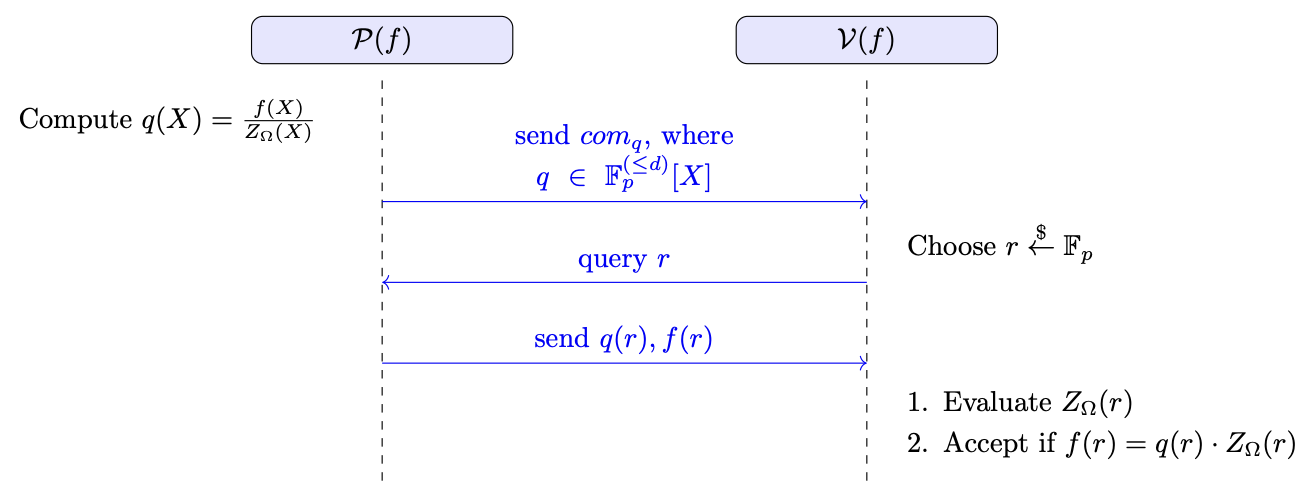
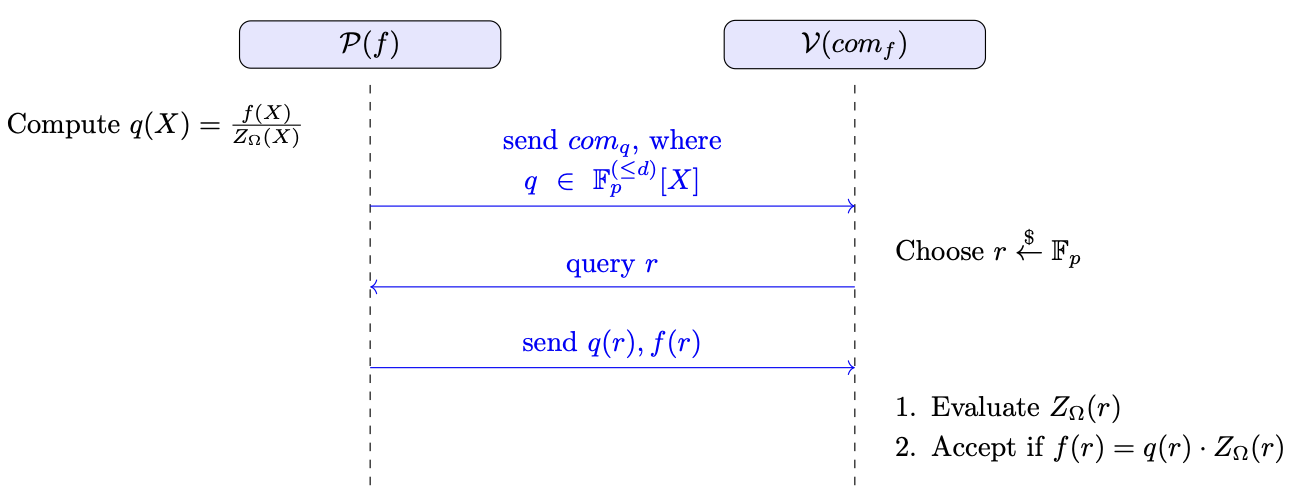
Add product check

diff --git a/src/02_plonk/05_prod_test.md b/src/02_plonk/05_prod_test.md
@@ -1,0 +1,232 @@
+# Product Test
+
+Product test is a task where a prover $\mathcal{P}$, knowing a polynomial function $f(X) \in \mathbb{F}^{(\leq d)}[X]$, tries to convince a verifier $\mathcal{V}$, who holds a commitment $\text{com}_f$ to $f$, that
+$$
+\prod_{a \in \Omega} f(a) = 1,
+$$
+where $\Omega \subseteq \mathbb{F}_p$ and $|\Omega| = k$.
+
+---
+A naive verifier strategy might be:
+
+1. **Individual proofs**: The verifier queries the prover for $f(a)$ for each $a \in \Omega$. This results in $\mathcal{O}(k)$ proof openings and $\mathcal{O}(k)$ verification operations. Finally, the verifier multiplies all values to check if their product is $1$.
+
+Our goal is to design a protocol where the prover can convince the verifier of
+$$
+\prod_{a \in \Omega} f(a) = 1
+$$
+using a *constant-size* proof (independent of $k $ aside from the baseline commitment scheme costs) and a *logarithmic* verifier runtime (rather than $\mathcal{O}(k) $).
+
+We use the same set $\Omega$ from the zero test, i.e.,
+$$
+\Omega = \{1, w, w^2, \dots, w^{k-1}\},
+$$
+
+where $w$ is a primitive $k$th root of unity in $\mathbb{F}_p$.
+
+---
+
+## Auxiliary Polynomial $t(X)$
+
+We define a polynomial $t(X)$ such that
+
+$$
+t(w \cdot x) = f(w \cdot x) \, t(x) \quad \forall x \in \Omega.
+$$
+
+To understand this relationship, let us expand it over the points of $\Omega$:
+
+- For $x = w^{k-1}$:  
+  $$
+  t(w^k) = f(w^k)\, t(w^{k-1})
+  \quad\Longrightarrow\quad
+  t(1) = f(1)\, t(w^{k-1}),
+  $$
+  since $w^k = 1$.
+
+- For $x = w^{k-2}$:
+  $$
+  t(w^{k-1}) = f(w^{k-1})\, t(w^{k-2}).
+  $$
+
+- For $x = w^{k-3}$:
+  $$
+  t(w^{k-2}) = f(w^{k-2})\, t(w^{k-3})
+  \quad\Longrightarrow\quad
+  t(w^{k-1}) = f(w^{k-1})\, f(w^{k-2})\, t(w^{k-3}),
+  $$
+
+and so on, until eventually:
+
+- For $x = w$:
+  $$
+  t(w^2) = f(w^2)\, t(w),
+  $$
+- For $x = 1$:
+  $$
+  t(w) = f(w)\, t(1).
+  $$
+
+Chaining these together, we get:
+
+$$
+t(w^{k-1}) 
+= 
+f(w^{k-1})\, f(w^{k-2}) \,\dots\, f(w)\, f(1)\, t(w^{k-1}).
+$$
+
+If $t(w^{k-1}) \neq 0$ (i.e. $t(w^{k-1}) = 1$), we can divide both sides by $t(w^{k-1})$ and obtain
+
+$$
+1
+=
+f(w^{k-1})\, f(w^{k-2})\, \dots \, f(w)\, f(1).
+$$
+
+Thus, to show this relationship, the prover’s goal boils down to proving:
+
+1. $t(w^{k-1}) = 1$.  
+2. $t(w \cdot x) = f(w \cdot x)\, t(x)$ for all $x \in \Omega$.
+
+---
+
+### Protocol Overview
+
+![Product Test Protocol](./diagrams/prod_test.png)
+
+1. The prover computes
+    - polynomial $t(X)$ of degree $k-1$ such that
+    $$
+    t(wX) = t(X)\, f(wX) \quad \forall\, X \in \Omega.
+    $$
+    $t(X)$ can be computed using $k$ points in $\Omega$ and knowing the fact that:
+    $$
+    t(w^{k-1}) = 1, \quad t(1) = f(1), \quad t(w^2) = t(w)\,f(w^2), \quad \dots
+    $$
+
+    - polynomial $q(X)$ of degree $d - 1$ such that
+    $$
+    q(X) \;=\; \frac{\,t(wX) \;-\; t(X)\,f(wX)\,}{Z_{\Omega}(X)},
+    $$
+    where $Z_{\Omega}(X)$ is the vanishing polynomial over $\Omega$. Since 
+    $$
+    t(wX) - t(X)\,f(wX) = 0 \quad \forall\, X \in \Omega,
+    $$
+    such a $q(X)$ exists.
+    The prover sends a *commitment* to $q$ and $t$ (denoted $\text{com}_q$, $\text{com}_t$) to the verifier.
+
+2. The verifier samples a random challenge $r \in \mathbb{F}_p$ (a public-coin protocol) and sends $r$ to the prover.
+
+3. The prover returns:
+   $$
+   t(w^{k-1}),\quad t(wr),\quad t(r),\quad q(r),\quad f(wr)
+   $$
+   along with their commitment proofs (showing these openings are consistent with the committed polynomials $t(X)$ and $q(X)$). This ensures the prover cannot lie about the polynomial values.
+
+
+4. The verifier locally computes $Z_{\Omega}(r)$. It then checks:
+   $$
+   t(w^{k-1}) \stackrel{?}{=} 1
+   \quad\text{and}\quad
+   t(wr) - t(r)\,f(wr) \stackrel{?}{=} q(r)\,Z_{\Omega}(r).
+   $$
+   If both checks hold, the verifier accepts; otherwise, it rejects.
+
+### Informal Security Proof
+- **Completeness**: If the prover follows the protocol honestly and $t(wX) - t(X)\,f(wX)$
+  truly vanishes on $\Omega$, then there is a valid $q(X)$ of degree at most 
+  $(\deg(t) + \deg(f) - \deg(Z_{\Omega})) = (k-1) + d - k = d - 1,$  
+  such that
+  $$
+  t(wX) - t(X)\,f(wX) \;=\; q(X)\,Z_{\Omega}(X) 
+  \quad\forall\,X.
+  $$
+  Therefore, for any challenge $r$,
+  $$
+  t(wr) - t(r)\,f(wr) \;=\; q(r)\,\bigl(Z_{\Omega}(r)\bigr),
+  $$
+  and the verifier’s checks succeed.
+
+- **Soundness**:A malicious prover cannot fool the verifier unless 
+  $$
+  t(wX) - t(X)\,f(wX) = 0 \quad \forall\,X \in \Omega
+  \quad\text{and}\quad
+  t(w^{k-1}) = 1.
+  $$
+  The main cases are:
+   1. **Secure Commitment Scheme**: We assume the commitment scheme is secure, so a malicious prover cannot cheat when revealing $f(wr),\,t(r),\,t(wr),\,t(w^{k-1}),\,q(r)$ in Step 3.
+   2. **Incorrect $q(X)$ or $t(X)$**: Suppose the product check really holds and the prover sends malicious polynomials $t'(X)$ or $q'(X)$. If the verifier’s checks pass for a random challenge $r$,
+     $$
+     t'(wr) - t'(r)\,f(wr) 
+     = 
+     q'(r)\,Z_{\Omega}(r),
+     $$
+     it implies 
+     $$
+     t'(wX) - t'(X)\,f(wX) 
+     =
+     q'(X)\,Z_{\Omega}(X)
+     \quad\Longrightarrow\quad
+     t'(wX) = t'(X)\,f(wX),
+     $$
+     holding for all $X \in \Omega$. Thus the relationship is indeed satisfied.
+   3. **Product check does not hold**: Suppose $\prod_{a \in \Omega} f(a) \;\neq\; 1.$
+     Then $t(wX) - t(X)\,f(wX)$ does *not* vanish on $\Omega$ (i.e., no polynomial $q(X)$ of degree $\le d - 1$ can factor out $Z_{\Omega}(X)$ from this difference). Formally, we could write
+     $$
+     t(wX) - t(X)\,f(wX) 
+     =
+     q(X)\,Z_{\Omega}(X) \;+\; R(X),
+     $$
+     where $R(X)$ is a nonzero remainder polynomial. Since a nonzero polynomial of degree $\deg(R)$ over $\mathbb{F}_p$ has at most $\deg(R)$ roots, picking a random $r \in \mathbb{F}_p$ means
+     $$
+     \Pr\bigl(R(r) = 0\bigr) 
+     \;\le\; 
+     \frac{\deg(R)}{\lvert\mathbb{F}_p\rvert}.
+     $$
+     Hence, except with negligible probability, the verifier’s check 
+     $$
+     t(wr) - t(r)\,f(wr) \;\stackrel{?}{=}\; q(r)\,\bigl(Z_{\Omega}(r)\bigr)
+     $$
+     fails, and the verifier rejects.
+
+	 Since $\deg(R) \le \deg(q) \le d - 1$, the protocol is sound, assuming $(d - 1)/p$ is negligible.
+
+## Time and Size Complexity
+Let $|\mathbb{F}_p|,\; d,\; k$ denote the field size, the degree of $f(X)$, and the size of $\Omega$ (respectively the degree of the vanishing polynomial $Z_{\Omega}(X)$).
+
+
+1. **Prover**:  
+   - The prover computes $t(X)$ (degree $k-1$) and $q(X)$ (degree $d-1$). This can be done in 
+     $\mathcal{O}(d \log d)$ time (e.g., via FFT-based methods).  
+   - The prover then:
+     1. Commits to $t(X)$ and $q(X)$.
+     2. Evaluates 
+        $$
+        q(r),\quad t(r),\quad t(wr),\quad f(wr),\quad t(w^{k-1})
+        $$
+        at the random challenge $r$.
+     3. Generates evaluation proofs that these values match the committed polynomials.
+
+
+2. **Verifier**:  
+   - Computes $Z_{\Omega}(r)$ in 
+     $\mathcal{O}(\log k)$ time (e.g., by exponentiation for $(r^k - 1)$).  
+   - Checks:
+     1. The correctness of the commitments and their openings (depends on the underlying commitment scheme).
+     2. The equality $t(w^{k-1}) \stackrel{?}{=} 1$.
+     3. The equality 
+        $$
+        t(wr) - t(r)\,f(wr) 
+        \;\stackrel{?}{=}\; 
+        q(r)\,\bigl(Z_{\Omega}(r)\bigr).
+        $$
+
+   In the KZG commitment scheme, these checks are constant time.
+
+3. . **Proof Size**:  
+   - The proof contains:
+     1. Commitments to $q(X)$ and $t(X)$.
+     2. The values 
+        $$q(r),\; t(r),\; t(wr),\; f(wr),\; t(w^{k-1}),$$ 
+        plus the corresponding evaluation proofs.  
+   - In a KZG scheme, all of these are of constant size, independent of $d$ or $k$.

diff --git a/src/02_plonk/04_zero_test.md b/src/02_plonk/04_zero_test.md
@@ -63,7 +63,7 @@ and the verifier can compute $X^k - 1$ in $\mathcal{O}(\log k)$ time (e.g., by r
    If this holds, the verifier accepts; otherwise, it rejects.
 
 ### Informal Security Proof
-- **Completeness**: If the prover follows the protocol honestly and $f(X)$ truly vanishes on $\Omega$, then there is a valid $q(X)$ of degree at most $d$ such that $f(X) = q(X)\,Z_{\Omega}(X)$ for all $X$. Hence, for any challenge $r$, $f(r) = q(r)\,Z_{\Omega}(r),$ and the verifier accepts.
+- **Completeness**: If the prover follows the protocol honestly and $f(X)$ truly vanishes on $\Omega$, then there is a valid $q(X)$ of degree at most $\deg(f) - \deg(Z) = d - k$ such that $f(X) = q(X)\,Z_{\Omega}(X)$ for all $X$. Hence, for any challenge $r$, $f(r) = q(r)\,Z_{\Omega}(r),$ and the verifier accepts.
 
 - **Soundness**: We show that a malicious prover cannot fool the verifier into accepting unless $f(X)$ actually vanishes on $\Omega$. The main cases are:
    1. **Secure Commitment Scheme**: We assume the commitment scheme is secure, so a malicious prover cannot cheat when revealing $f(r)$ or $q(r)$ in Step 3.
@@ -72,7 +72,7 @@ and the verifier can compute $X^k - 1$ in $\mathcal{O}(\log k)$ time (e.g., by r
    f(X) = q'(X)\,Z_{\Omega}(X),
    $$
    so $Z_{\Omega}(X)$ does indeed divide $f(X)$. Thus $f(X)$ is zero on $\Omega$, no matter what the correct quitionet is, whether $q$ or $q'$.
-   3. **$f(X)$ Not Zero on $\Omega$**: Suppose $f(X)$ does *not* vanish on $\Omega$. Then there is no polynomial $q(X)$ of degree at most $d$ for which 
+   3. **$f(X)$ Not Zero on $\Omega$**: Suppose $f(X)$ does *not* vanish on $\Omega$. Then there is no polynomial $q(X)$ of degree at most $d - k$ for which 
       $$
       f(X) = q(X)\,Z_{\Omega}(X).
       $$
@@ -89,6 +89,8 @@ and the verifier can compute $X^k - 1$ in $\mathcal{O}(\log k)$ time (e.g., by r
       f(r) \stackrel{?}{=} q(r)\,Z_{\Omega}(r)
       $$
       will fail, and the verifier will reject.
+
+      Since $\deg(R) \le \deg(q) \le d-k$, the protocol is sound, assuming $(d-k)/p$ is negligible.
 
 ## Time and Size Complexity
 Let $|\mathbb{F}_p|, d, k$ denote the field size, the degree of $f(X)$, and the size of $\Omega$ (respectively the degree of the vanishing polynomial $Z_\Omega(X)$).
